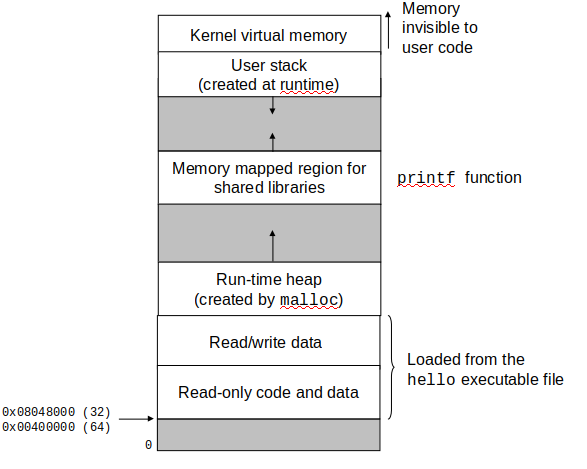
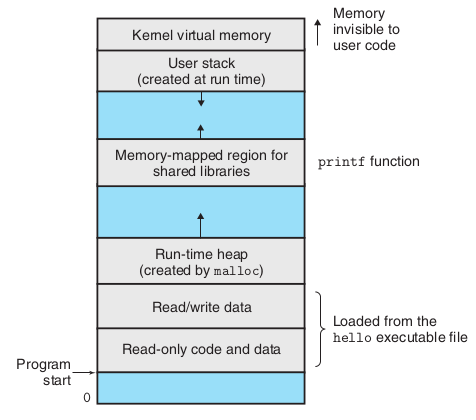
adapt to 3rd version

Changed region(s): [[0.0, 0.0, 0.9706, 0.9905], [0.3235, 0.7119, 0.5588, 0.7429]]

diff --git a/01_计算机系统漫游.md b/01_计算机系统漫游.md
@@ -74,15 +74,15 @@ hello程序的运行需要经过多次信息的挪动:
 ## 7.2 线程 Thread
 一个进程实际上可以由多个称为**线程**的执行单元组成，每个线程都运行在进程的上下文中，并共享同样的代码和全局数据。进程的个体间是完全独立的，而线程间是彼此依存的。
 
-## 7.3 虚拟存储器 Virtual memory
-虚拟存储器是一个抽象概念，它为每个进程提供了一个假象，即每个进程都在独占地使用主存。每个进程看到的是一致的存储器，称为**虚拟地址空间**：
+## 7.3 虚拟内存 Virtual memory
+虚拟内存是一个抽象概念，它为每个进程提供了一个假象，即每个进程都在独占地使用主存。每个进程看到的是一致的存储器，称为**虚拟地址空间**：
 
 ![Linux进程的虚拟地址空间](Images/1_6.png)
 
 上图的地址从下往上是增大的。地址空间的底部区域存放用户进程定义的代码和数据。地址空间最上面的区域是为操作系统中的代码和数据保留的，这对所有进程是一致的。
 
 我们从最低的地址，逐步向上介绍上面出现的区域名词:
-1. 程序代码和数据(Loaded from the executable file)：对于所有进程来说，代码是从同一固定地址开始的，分别为0x08048000（32位）以及0x00400000（64位），紧接着是全局变量相对应的数据位置。
+1. 程序代码和数据(Loaded from the executable file)：对于所有进程来说，代码是从同一固定地址开始的，紧接着是全局变量相对应的数据位置。
 2. 堆(heap)：代码和数据区后紧随的是运行时堆(Run-rime heap)。代码和数据区是在进程一开始运行时就规定了大小，而当调用malloc和free这样的 C 标准库函数(类似C++中的allocator?)时，堆可以在运行时动态的扩展和收缩。
 3. 共享库(Memory mapped region for shared libraries)存放像C标准库和数据库这样的代码和数据的区域。
 4. 栈(Stack)：位于用户虚拟地址空间顶部，编译器用它来实现函数调用，用户栈(User stack)在程序执行期间可以动态的扩展和收缩。当我们调用一个函数时，栈会增长；从一个函数返回时，栈会收缩。
@@ -99,7 +99,14 @@ hello程序的运行需要经过多次信息的挪动:
 当系统将一串字节从主存复制到网络适配器时，数据流经过网络到达另一台机器。
 
 # 9 重要主题
-## 9.1 并发和并行
+## 9.1 Amdahl定律
+当我们对系统的某个部分加速时，其对系统整体性能的影响取决于该部分的重要性和加速程度。假设系统执行某应用本来需要$T_{old}$，某部分所需执行时间与$T_{old}$的比例是$\alpha$。现在该部分的性能提升比例为$k$,即该部分现在所需时间为$\alpha T_{old}/k$。则系统执行该应用的新总时间为：
+$$T_{new}=(1-\alpha)T_{old}+(\alpha T_{old})/k=T_{old}[(1-\alpha)+\alpha/k]$$
+加速比：
+$$S=T_{old}/T_{new}=\frac{1}{(1-\alpha)+\alpha/k}$$
+
+考虑$\alpha=60\%,\ k=3$即对系统的一个主要部分做出重大改进，实际加速比$S=1.67$。也就是说，虽然我们对系统的一个主要部分做出了重大改进，系统加速比也不显著。所以**想要显著加速整个系统，必须提升全系统中相当大部分的速度**。
+## 9.2 并发和并行
 - 并发(cocurrency)：指一个同时具有多个活动的系统
 - 并行(parallelism)：用并发使一个系统运行得更快
 
@@ -113,7 +120,7 @@ hello程序的运行需要经过多次信息的挪动:
    - 超标量(superscalar)处理器：可以达到比一个周期一条指令更快的执行速率的处理器
 3. 单指令、多数据并行(SIMD parallelism)
 
-## 9.2 计算机系统中抽象的重要性
+## 9.3 计算机系统中抽象的重要性
 指令集结构(Instruction set architecture)提供了对实际处理器硬件的抽象，虚拟机(Virtual machine)提供了对整个计算机(包括操作系统、处理器和程序)的抽象：
 
 ![计算机系统提供的一些抽象](Images/1_8.png)
